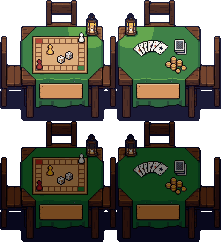
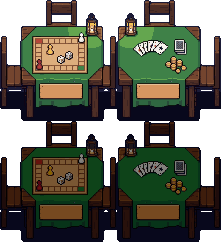
Update fix

Changed region(s): [[0.0, 0.376, 1.0, 0.5207]]

diff --git a/app.js b/app.js
@@ -1331,7 +1331,7 @@ function mostrarTrocaDeServidor() {
 
 // Medidas em pixels da arte de salao.png e salao-mesas.png. Na folha das mesas, a linha de cima tem
 // o lampião aceso e a de baixo, apagado. Com mais de duas mesas o chão cresce repetindo a faixa de
-// tábuas logo acima do corte; a faixa começa e termina numa emenda para a repetição não aparecer.
+// tábuas logo acima do corte; a faixa vai de uma emenda de tábuas à seguinte, então as cópias se encaixam.
 const SALAO = { largura: 255, altura: 316, corte: 235, faixa: 54, primeiraFileira: 108, margem: 6 };
 const MESAS = [
   { x: 0, largura: 117, placa: [61, 91] },
@@ -1345,7 +1345,7 @@ let imagensDoSalao = null;
 function carregarSalao() {
   imagensDoSalao ??= Promise.all(['salao', 'salao-mesas'].map(nome => {
     const imagem = new Image();
-    imagem.src = `midia/site/${nome}.png`;
+    imagem.src = `midia/site/${nome}.png?v=2`;
     return imagem.decode().then(() => imagem);
   })).catch(erro => {
     imagensDoSalao = null;
@@ -1388,8 +1388,8 @@ function eDaToalha(r, g, b) {
   return Math.abs(120 + 60 * (b - r) / (maior - menor) - 128) < 40;
 }
 
-// A toalha da arte é verde e só ela usa verde. Cada tom vira o tom correspondente da cor do servidor,
-// com a mesma diferença de claridade em relação ao verde base, para manter luz e sombra do desenho.
+// Só a toalha usa verde na arte. Cada tom de verde vira a cor do servidor deslocada pela mesma
+// diferença de claridade que esse tom tem em relação a TOALHA_DA_ARTE.
 function pintarMesa(folha, mesa, linha, cor) {
   const tela = document.createElement('canvas');
   tela.width = mesa.largura;

diff --git a/index.html b/index.html
@@ -16,7 +16,7 @@
 <link rel="preconnect" href="https://firestore.googleapis.com" crossorigin>
 <link rel="stylesheet" href="estilo.css?v=88">
 <script src="carregamento.js?v=1"></script>
-<script type="module" src="app.js?v=98"></script>
+<script type="module" src="app.js?v=99"></script>
 </head>
 <body>
 <div class="tela">
